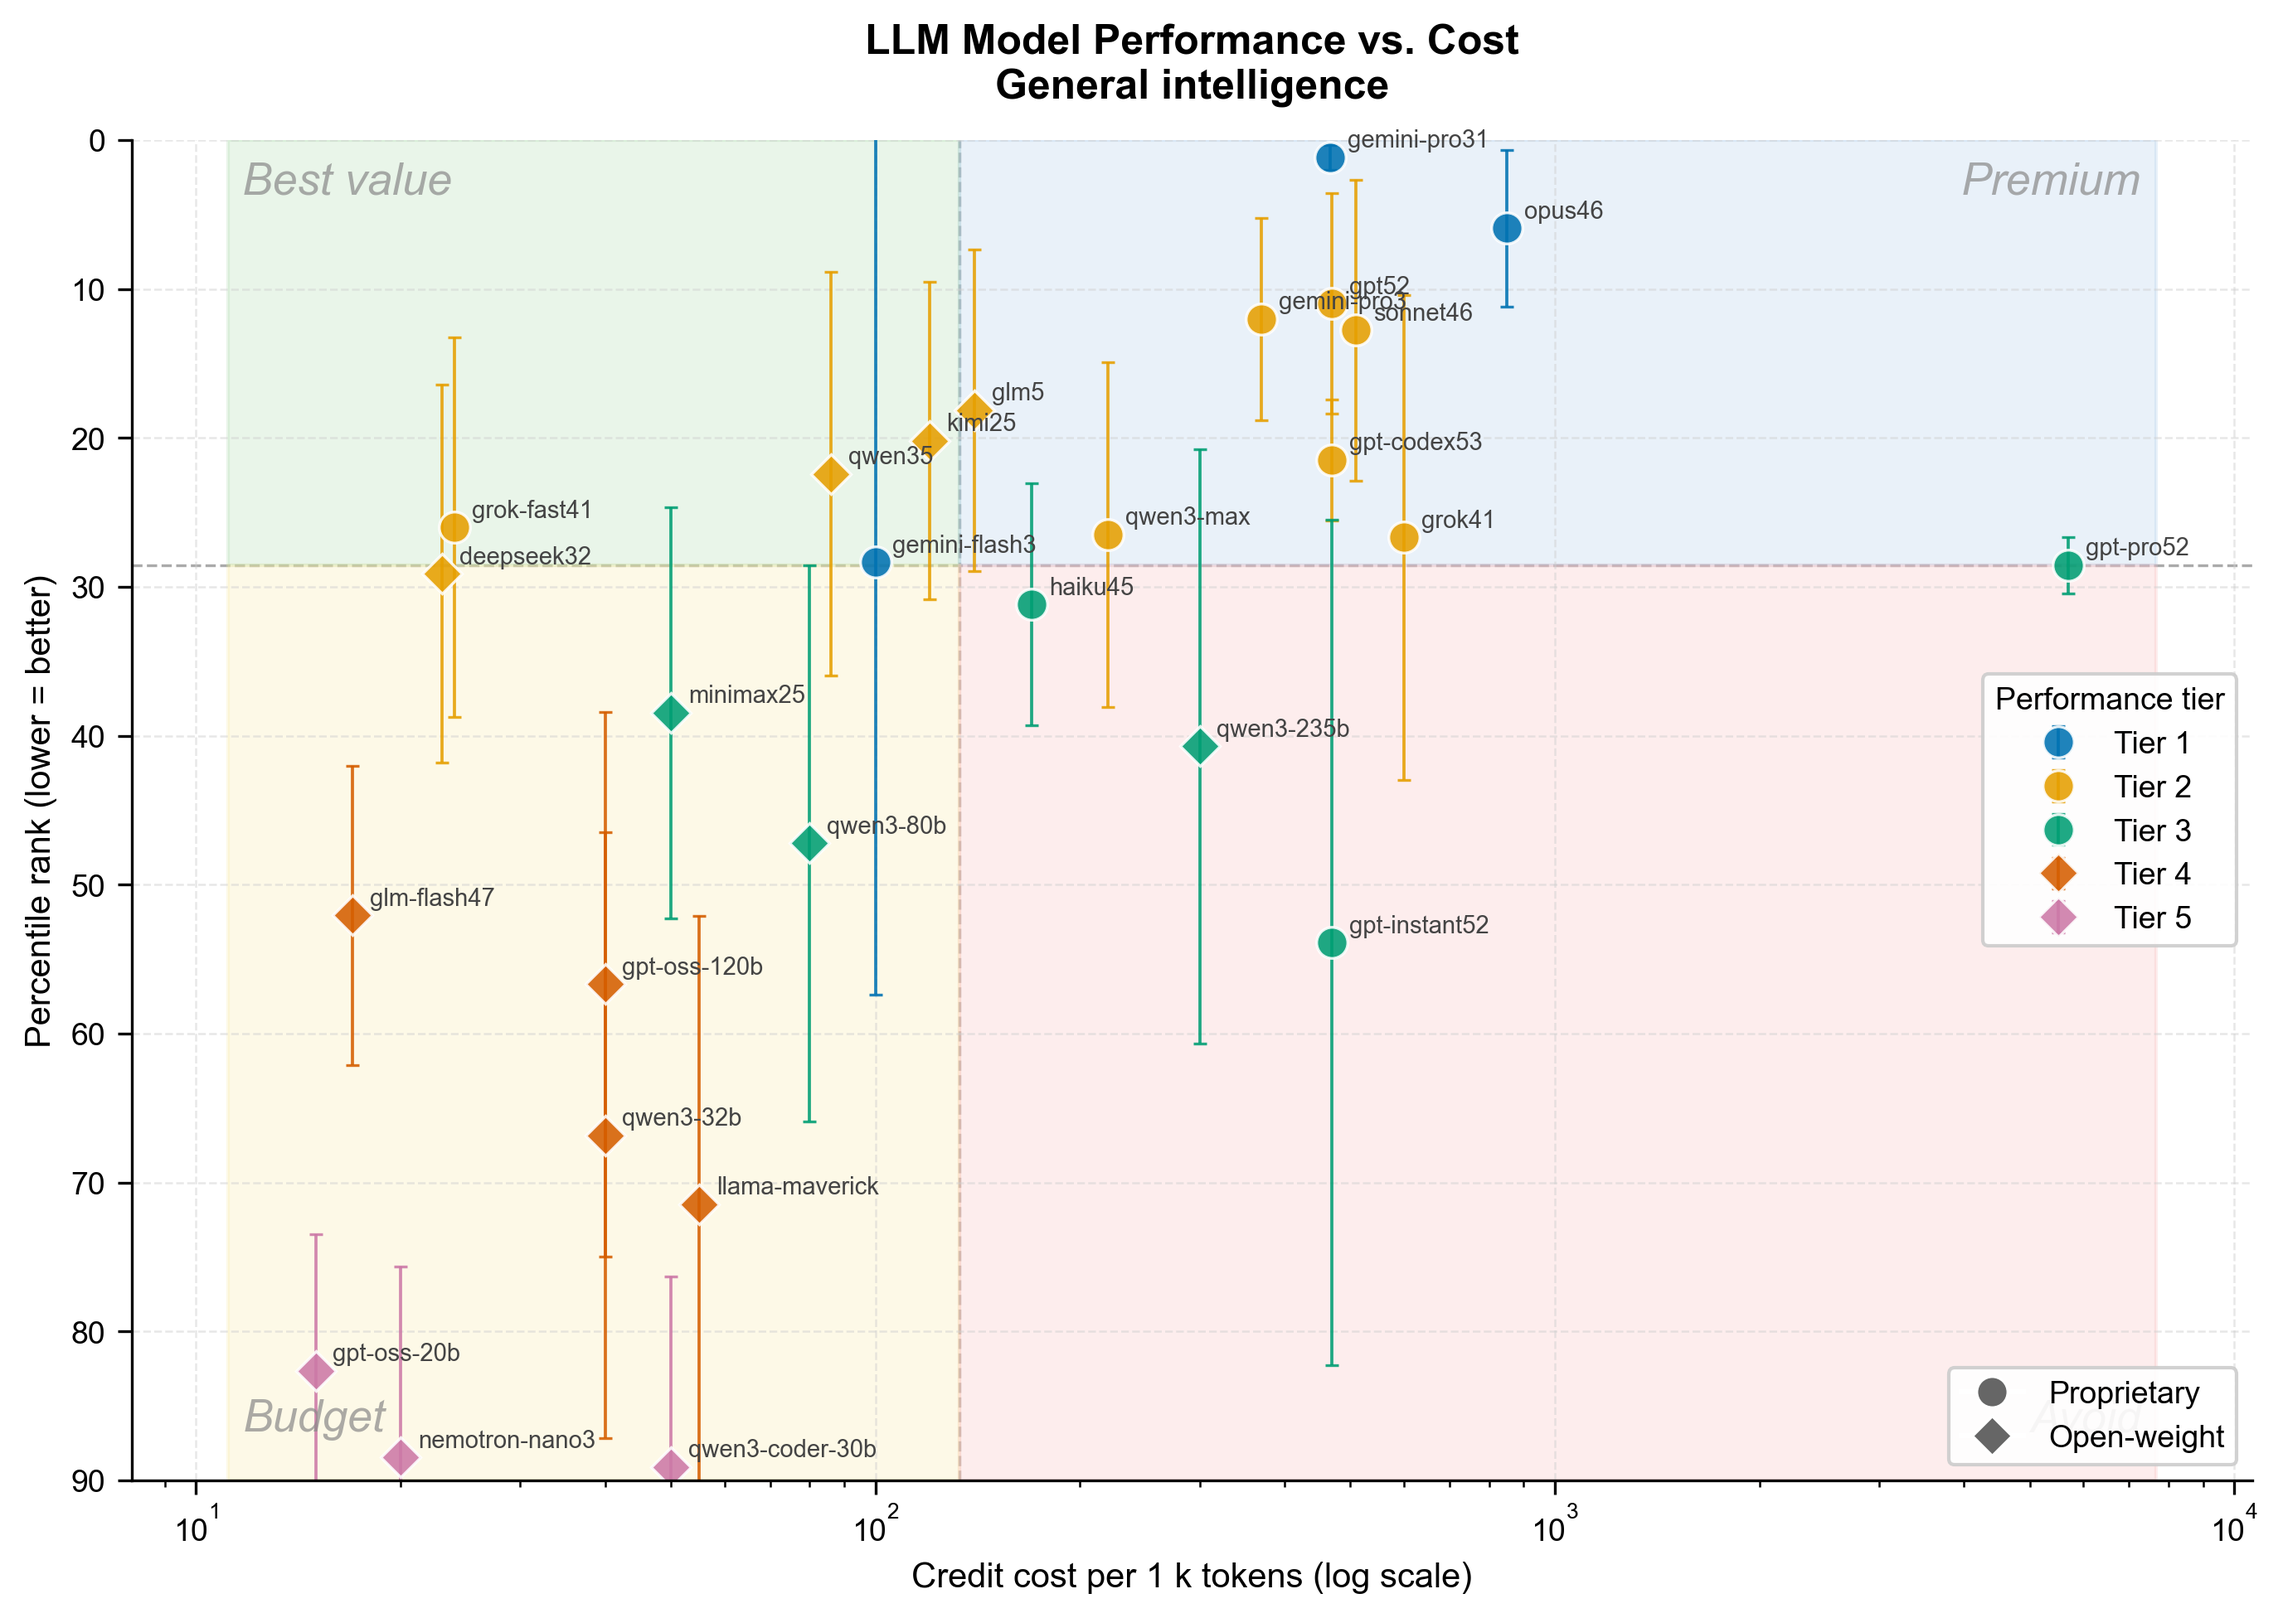
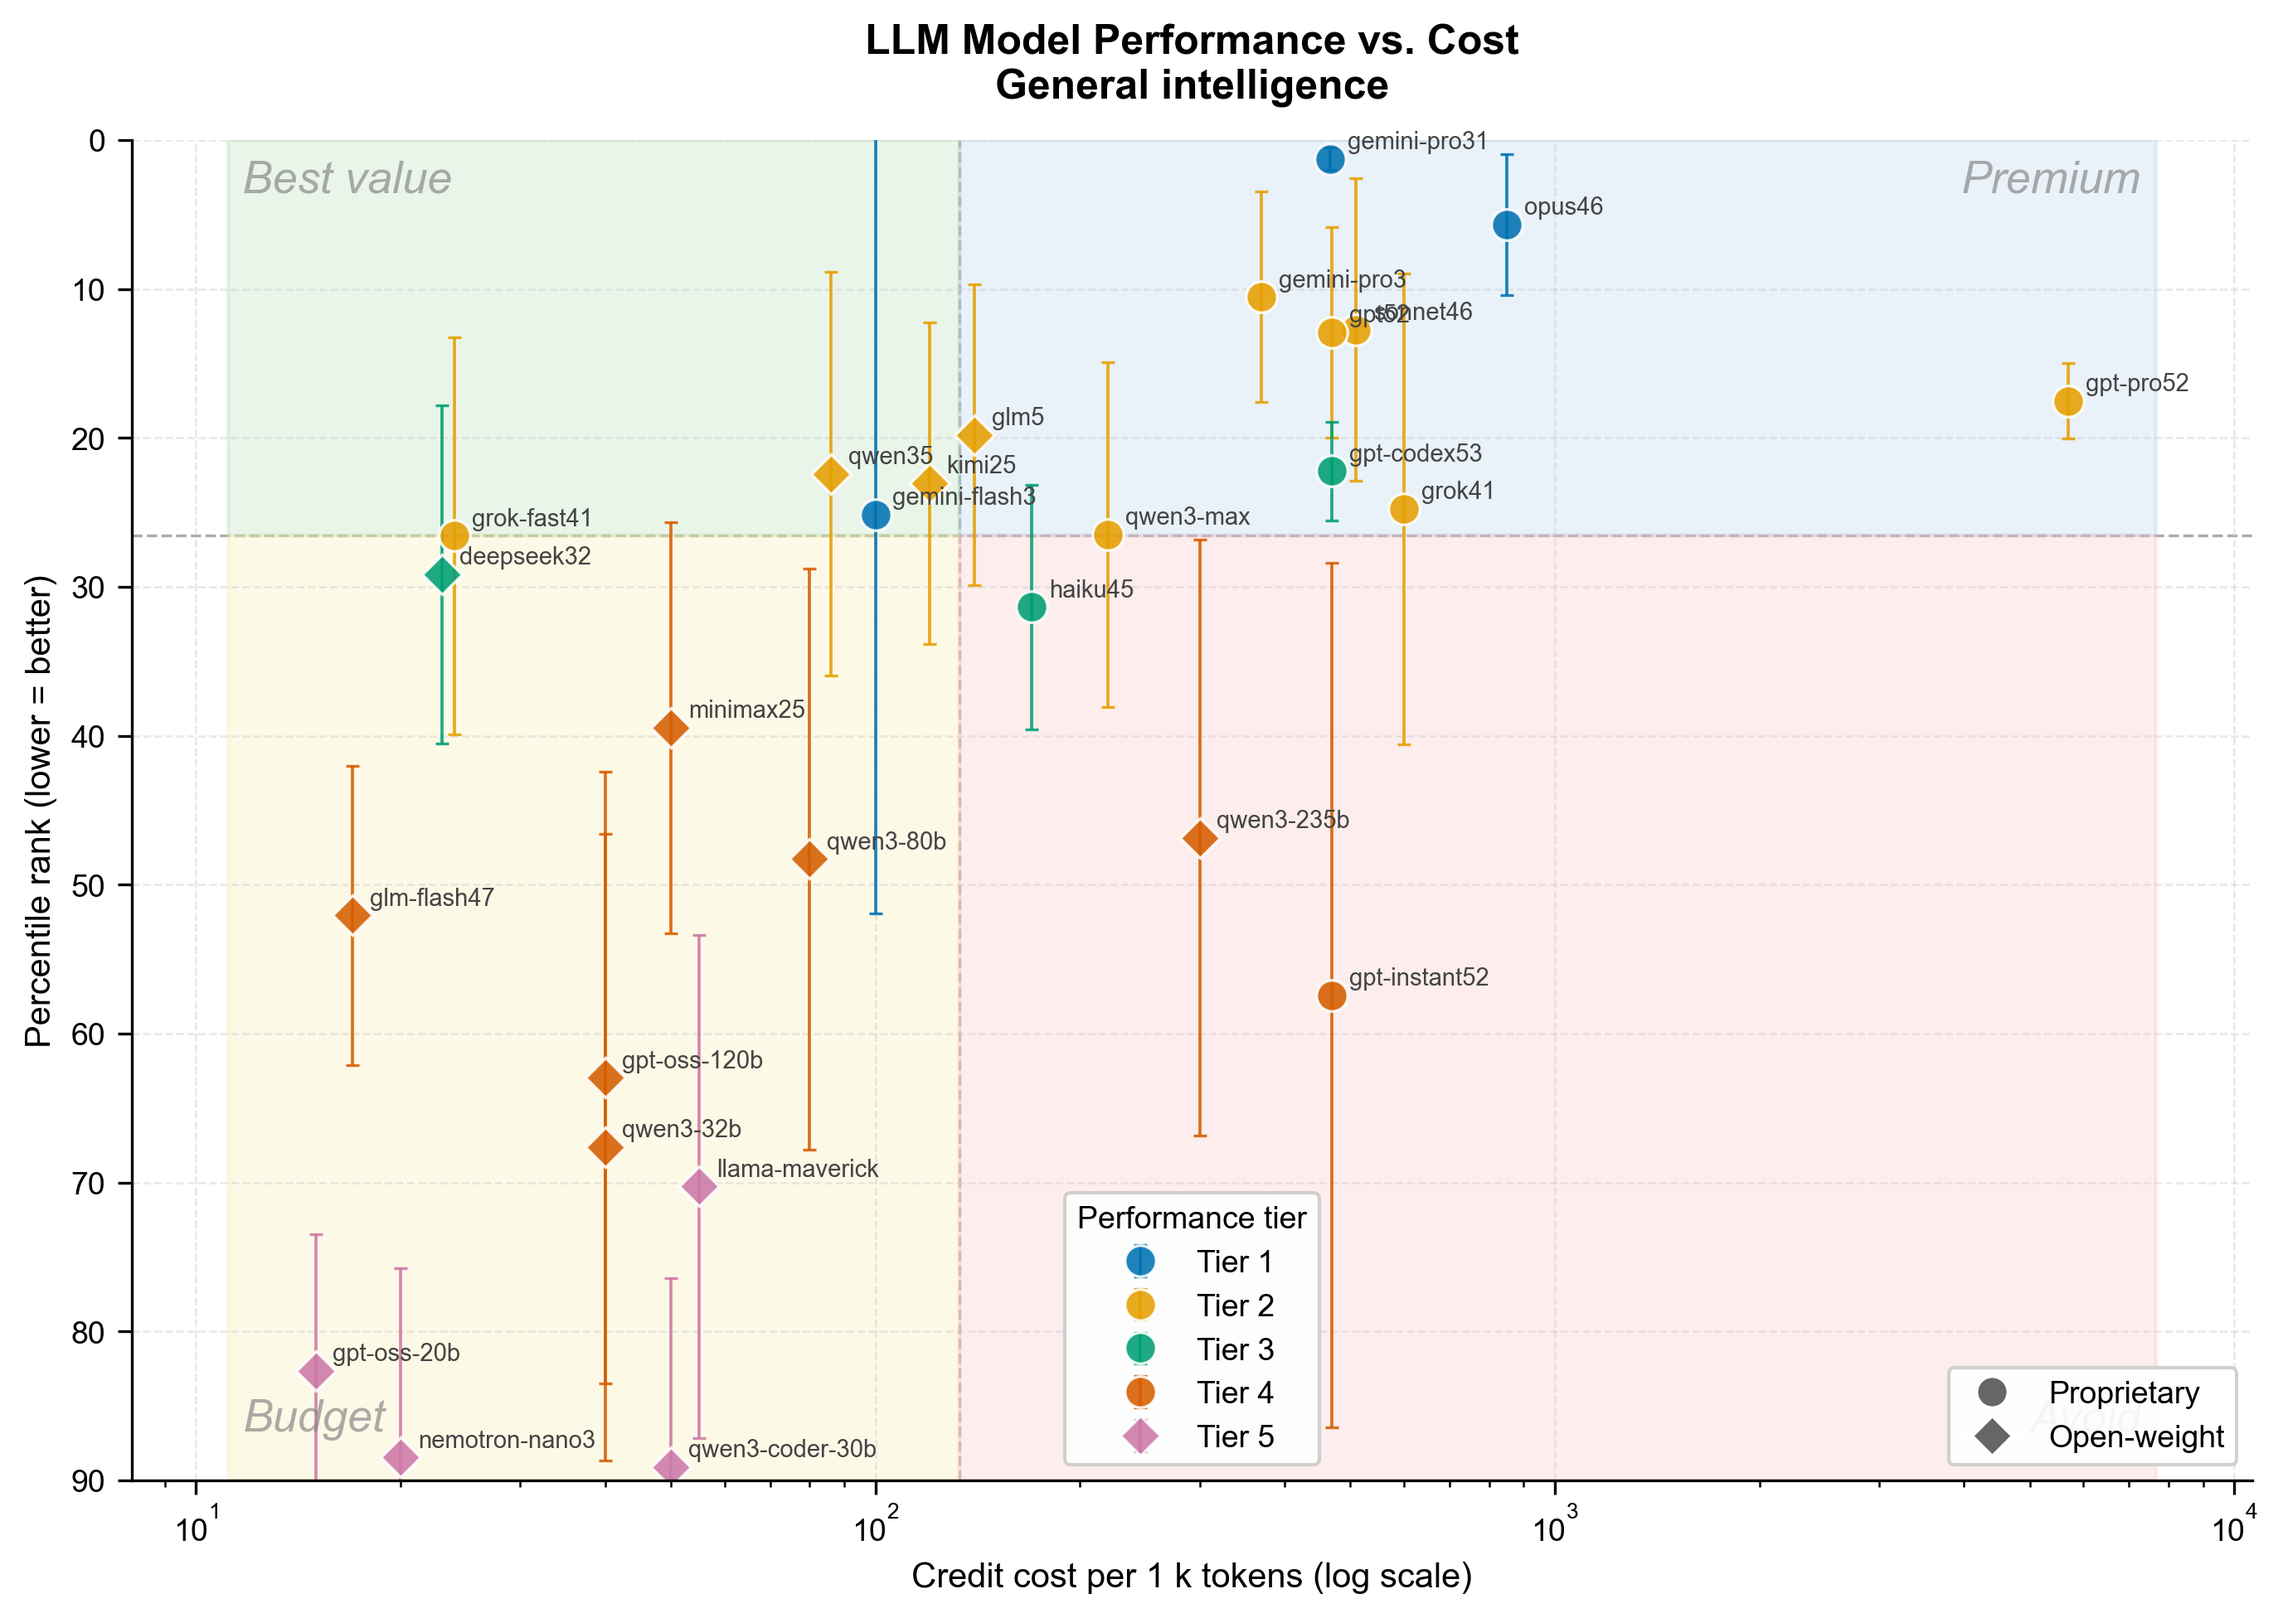
updated documentation with -q option

diff --git a/README.md b/README.md
@@ -33,8 +33,11 @@ The above command will produce the following output:
 For the plots:
 
 ```shell
-# generate performance plot for general reasoning 
-python rank_models.py data/ranks_general.txt --plot  
+# generate performance plot for general reasoning
+python rank_models.py data/ranks_general.txt --plot
+
+# generate scatter plot with quadrant overlays
+python rank_models.py data/ranks_general.txt --plot --quadrants
 ```
 
 This will output two plots. The first is the average ranking as a function of API cost:
@@ -70,7 +73,7 @@ pip install pandas matplotlib numpy  # only needed for --plot flag
 ### Command-line Arguments
 
 ```
-python rank_models.py [filename] [-p|--plot] [-d|--debug]
+python rank_models.py [filename] [-p|--plot] [-d|--debug] [-q|--quadrants]
 ```
 
 | Argument | Description |
@@ -78,6 +81,7 @@ python rank_models.py [filename] [-p|--plot] [-d|--debug]
 | `filename` | Path to the input file containing benchmark data. Defaults to `ranks_general.txt` if not provided. |
 | `-p`, `--plot` | Generate a PNG scatter plot of model performance vs. cost with statistical tiering visualization. |
 | `-d`, `--debug` | Show detailed tiering diagnostics including leader selection, overlap checks, and tier assignments. |
+| `-q`, `--quadrants` | Overlay quadrant dividers and labels on the scatter plot. Divides the chart into four regions — **Best value** (low cost, high perf), **Premium** (high cost, high perf), **Budget** (low cost, low perf), **Avoid** (high cost, low perf) — using the geometric mean of cost and median score as midpoints. Requires `--plot`. |
 
 ## Input format for datafile
 
@@ -183,6 +187,8 @@ A sorted ASCII table (best model first):
 ### Visualization Plot (`--plot`)
 
 When using the `--plot` flag, the tool generates a PNG image with the same basename as your input file (e.g., `ranks_general.txt` → `ranks_general.png`).
+
+**Quadrant overlay (`--quadrants`, `-q`):** Pass this flag together with `--plot` to divide the scatter plot into four labelled, shaded regions. The vertical divider is placed at the geometric mean of all plotted model costs (log-scale midpoint); the horizontal divider sits at the median aggregate score. This makes it easy to spot which models offer the best performance per dollar.
 
 #### Statistical Tiering Methodology
 

diff --git a/AGENTS.md b/AGENTS.md
@@ -56,6 +56,7 @@ python rank_models.py my_data.txt                  # custom input file
 python rank_models.py my_data.txt --plot           # generate PNG visualization
 python rank_models.py my_data.txt -d               # show tiering debug output
 python rank_models.py my_data.txt -d -p            # debug + plot
+python rank_models.py my_data.txt -p -q            # plot with quadrant overlays
 
 # Type checking
 mypy rank_models.py --strict
@@ -78,13 +79,14 @@ python -m pytest tests/test_file.py::test_function -v  # single test
 ## CLI Usage
 
 ```bash
-python rank_models.py [filename] [-p|--plot] [-d|--debug]
+python rank_models.py [filename] [-p|--plot] [-d|--debug] [-q|--quadrants]
 python rank_models.py -h                          # Show help
 ```
 
 - `filename` - Input file (default: `ranking.txt`)
 - `--plot`, `-p` - Generate PNG visualization with tiering
 - `--debug`, `-d` - Show detailed tiering diagnostics
+- `--quadrants`, `-q` - Overlay quadrant dividers and labels on the scatter plot (requires `--plot`)
 
 ## Code Style Guidelines
 
@@ -199,6 +201,7 @@ except ImportError as exc:
 - **Percentages:** 3 decimal places (0.XXX format)
 - **Plots:** 150 DPI PNG, log scale X-axis, inverted Y-axis
 - **Legend:** Show tiers when plotting enabled
+- **Quadrants (`-q`):** Divides the scatter plot into four regions using the geometric mean of cost (X) and median score (Y) as midpoints; regions are shaded and labelled "Best value" (low cost, high perf), "Premium" (high cost, high perf), "Budget" (low cost, low perf), "Avoid" (high cost, low perf)
 - **Debug Output:** Use emojis and clear separators for readability
 
 ## Debug Mode Guidelines

diff --git a/CLAUDE.md b/CLAUDE.md
@@ -15,6 +15,7 @@ Single-file Python CLI (`rank_models.py`) that aggregates LLM benchmark leaderbo
 python rank_models.py data/ranks_general.txt
 python rank_models.py data/ranks_coding.txt --plot
 python rank_models.py data/ranks_general.txt -d -p   # debug + plot
+python rank_models.py data/ranks_general.txt -p -q   # plot with quadrant overlays
 
 # Type checking
 mypy rank_models.py --strict
@@ -33,7 +34,7 @@ Everything lives in `rank_models.py` (stdlib-only for core; pandas/matplotlib/nu
 - `parse_file()` — reads a `.txt` data file containing Python dict literals; returns `(benchmarks, cost_dict, open_dict)`
 - `main()` — computes percentile scores, applies sparse-data penalty, prints ASCII table, optionally calls plotting functions
 - `categorize_tiers()` — groups models into tiers via "Indistinguishable from Best" (1σ CI overlap); requires pandas
-- `create_plot()` — scatter plot (performance vs. cost, log-scale X); saves `<basename>.png`
+- `create_plot()` — scatter plot (performance vs. cost, log-scale X); saves `<basename>.png`; optional `-q`/`--quadrants` flag shades and labels four regions (Best value / Premium / Budget / Avoid) using geometric-mean cost and median score as midpoints
 - `create_ranking_plot()` — horizontal ranking chart; saves `<basename>_ranking.png`
 
 ## Data File Format
